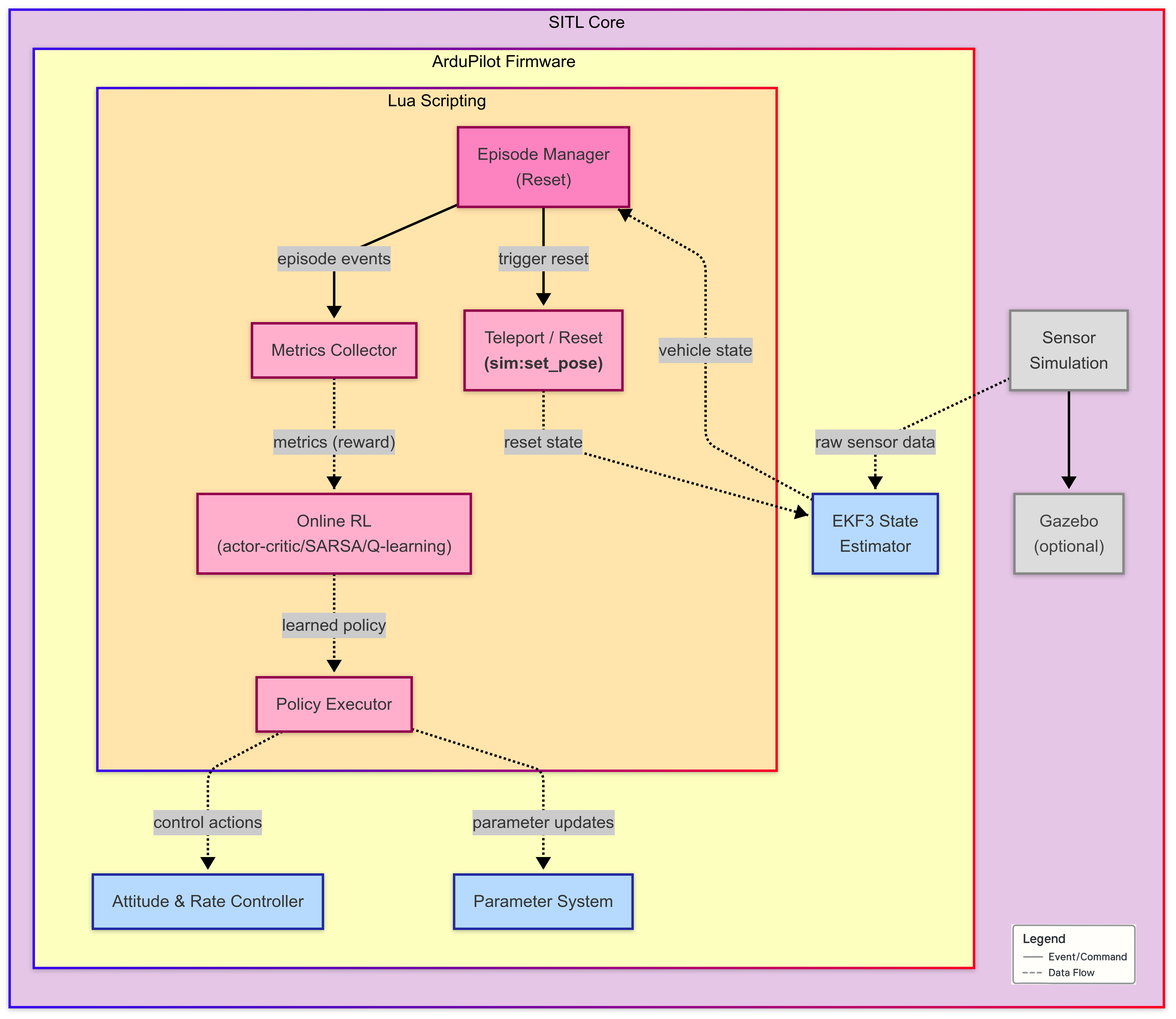
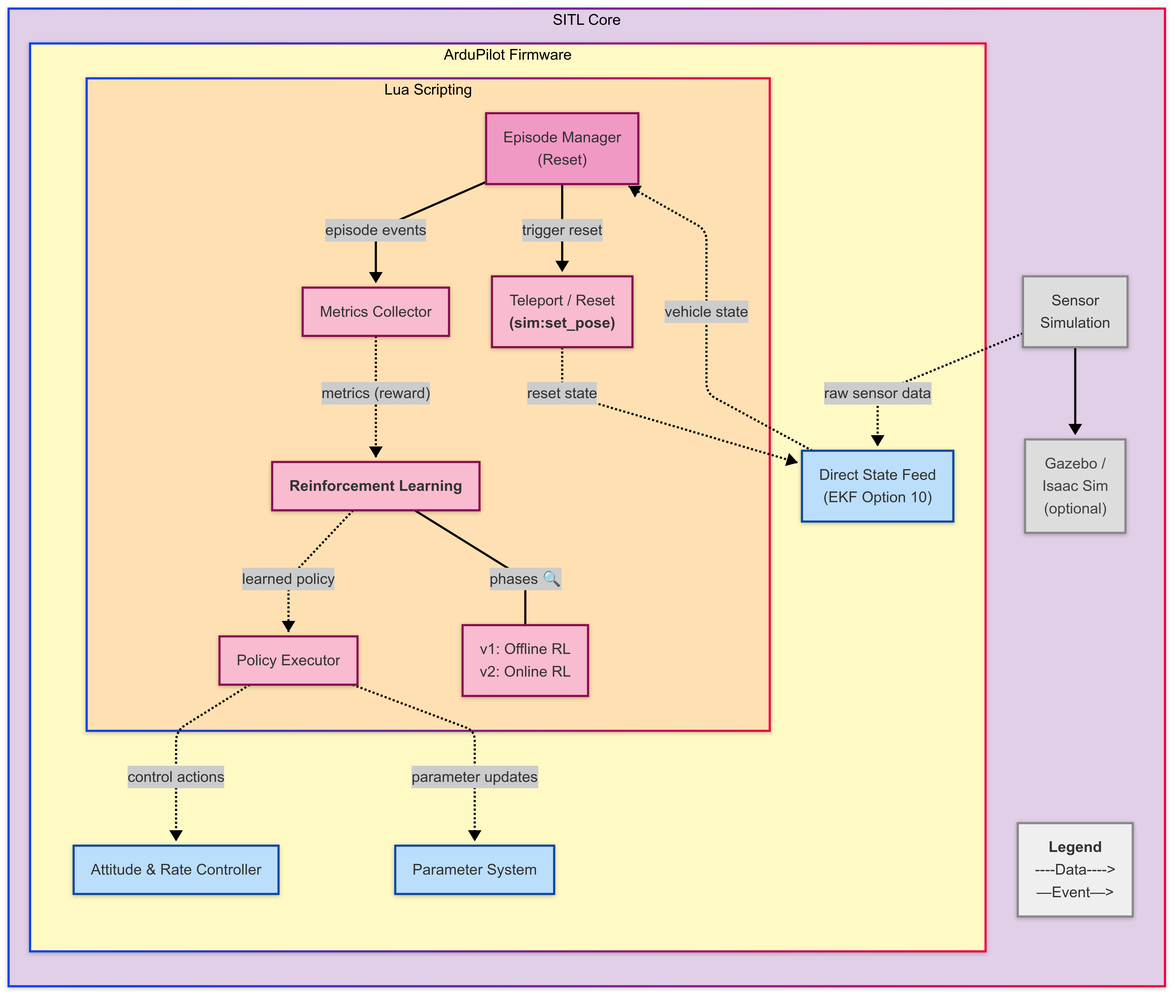
Update docs

Changed region(s): [[0.0, 0.0, 1.0, 0.992], [0.9375, 0.0, 1.0, 0.031]]

diff --git a/docs/README.md b/docs/README.md
@@ -2,60 +2,60 @@
 
 ![GSoC banner](images/GSoC-Banner.png)
 
-
-
 > **A Lua script that lets ArduPilot learn to tune itself, live, within SITL.**
 
-**Mentors:** Nate Mailhot & Sanket Sharma&nbsp;&nbsp;|&nbsp;&nbsp;**Timeframe:** May → Sep 2025&nbsp;&nbsp;|&nbsp;&nbsp;**Project:** [GSoC](https://summerofcode.withgoogle.com/programs/2025/projects/w7EYZSIz)
+**Mentors:** Nate Mailhot & Sanket Sharma  |  **Timeframe:** May → Sep 2025  |  **Project:** [GSoC](https://summerofcode.withgoogle.com/programs/2025/projects/w7EYZSIz)
 
 ## 1. Introduction 📣
 
-Hello ArduPilot community! I'm Bruno Andreoni Sarmento, a 4th year student at the Polytechnic School of the University of São Paulo (USP), pursuing a bachelor’s degree in Electrical Engineering. For the past two years I’ve been a member of Skyrats (USP’s autonomous-drone team), where I’ve worked with many open-source tools, ArduPilot being our core flight-control framework.
+Hello ArduPilot community! I'm Bruno Andreoni Sarmento, a 4th‑year student at the Polytechnic School of the University of São Paulo (USP), pursuing a bachelor’s degree in Electrical Engineering. For the past two years I’ve been a member of Skyrats (USP’s autonomous‑drone team), where I’ve worked with many open‑source tools, ArduPilot being our core flight‑control framework.
 
-I've been inspired by other team members that took part in GSoC project, and it was a dream come true being selected to this awesome project!
+I've been inspired by other team members that took part in GSoC projects, and it was a dream come true being selected for this awesome project!
 
 ## 2. Problem Statement ❗
 
-Today, UAV parameter tuning still relies on manual adjustments, often requiring trial-and-error sweeps and test flights. This approach is:
+Today, UAV parameter tuning still relies on manual adjustments, often requiring trial‑and‑error sweeps and test flights. This approach is:
 
-- Time-consuming and inefficient;
-- Poorly reproducible;
-- Not scalable for adaptive or autonomous systems.
+* Time‑consuming and inefficient;
+* Poorly reproducible;
+* Not scalable for adaptive or autonomous systems.
 
-Meanwhile, **Reinforcement Learning (RL)** offers a principled method for adaptive control, but the **ArduPilot SITL environment lacks built-in support for episodic interactions**, which are essential for reliable training and evaluation.
+Meanwhile, **Reinforcement Learning (RL)** offers a principled method for adaptive control, but the **ArduPilot SITL environment lacks built‑in support for episodic interactions**, which are essential for reliable training and evaluation.
 
 ## 3. Project Proposal 🚀
-> This project builds a lightweight Lua-based scripting layer on top of the existing SITL engine to enable episodic RL interactions.
+
+> This project builds a lightweight Lua‑based scripting layer on top of the existing SITL engine to enable episodic RL interactions.
 
 ![RL Illustrated](images/rl.jpg)
 
 The project introduces:
 
-- **Episodic Replay**: A structured way to test and evaluate UAV behavior across multiple runs, starting from known or randomized states.
-- **State Reset Mechanism**: Using `sim:set_pose()` in Lua scripts to programmatically reset UAV position, velocity, and attitude between episodes.
-- **Metric Logging**: Automated telemetry collection (e.g., tracking error, convergence time) to evaluate each episode’s performance.
-- **Online RL Loop**: A lightweight **online algorithm** (e.g., SARSA or Q-learning) will run in real-time within SITL to update parameters during simulation.
+* **Episodic Replay** – a structured way to test and evaluate UAV behavior across multiple runs, starting from known or randomized states;
+* **State Reset Mechanism** – using `sim:set_pose()` in Lua scripts to programmatically reset UAV position, velocity, and attitude between episodes;
+* **Metric Logging** – automated telemetry collection (e.g., tracking error, convergence time) to evaluate each episode’s performance;
+* **Offline RL Phase (baseline)** – log rich episodes and train an initial Q‑table/value‑function *offline* before any in‑place updates;
+* **Online RL Phase (final goal)** – once the baseline is set, the same agent keeps learning *live*, updating parameters in real time during simulation.
 
 This project builds the necessary infrastructure for **online learning directly in SITL**, unlocking new workflows for intelligent parameter tuning and experimental reinforcement learning within the ArduPilot ecosystem.
 
 ## 4. Solution Diagram 🖼
-![Solution diagram](images/diagram.png)
 
-This diagram shows how **online reinforcement learning** is embedded into **ArduPilot SITL** using **Lua scripting**.
+![Solution diagram](images/diagram.png)
 
 ### 4.1 Block‑by‑Block Breakdown 🔍
 
-| Block                 | Role                                                                                  | Key ArduPilot / Lua APIs                                       |
-| --------------------- | ------------------------------------------------------------------------------------- | -------------------------------------------------------------- |
-| **Episode Manager**   | Detects episode termination (e.g. time‑out, crash, success) and fires a reset.        | `time:millis()`, custom state checks                           |
-| **Teleport / Reset**  | Instantaneously re‑positions vehicle & zeros attitude/vel using **`sim:set_pose()`**. | `sim:set_pose(instance, loc, orient, vel_bf, gyro)`            |
-| **Metrics Collector** | Computes reward signals (tracking error, overshoot, energy) every tick.               | `ahrs:get_pitch()`, `vehicle:get_target_alt()`, custom math    |
-| **Online RL**         | Updates Q‑table / value function in‑place at \~10 Hz; selects next action.            | Pure Lua tables for Q‑table; math lib                          |
-| **Policy Executor**   | Applies action by tweaking params or sending direct control:                          | `param:set("ATC_RAT_PIT_P", val)`, `vehicle:set_target_roll()` |
-| **EKF3**              | Supplies fused state to Lua via binding helpers (`ahrs`, `ins`, etc.).                | Firmware internal                                              |
-| **Sensor Simulation** | Generates IMU/GPS from physics backend (Gazebo or built‑in).                          | SITL C++                                                       |
+| Block                              | Role                                                                                                                                                                                                                                                    | Key ArduPilot / Lua APIs                                       |
+| ---------------------------------- | ------------------------------------------------------------------------------------------------------------------------------------------------------------------------------------------------------------------------------------------------------- | -------------------------------------------------------------- |
+| **Episode Manager**                | Detects episode termination (e.g. time‑out, crash, success) and fires a reset.                                                                                                                                                                          | `time:millis()`, custom state checks                           |
+| **Teleport / Reset**               | Instantaneously re‑positions vehicle & zeros attitude/vel using **`sim:set_pose()`**.                                                                                                                                                                   | `sim:set_pose(instance, loc, orient, vel_bf, gyro)`            |
+| **Metrics Collector**              | Computes reward signals (tracking error, overshoot, energy) every tick.                                                                                                                                                                                 | `ahrs:get_pitch()`, `vehicle:get_target_alt()`, custom math    |
+| **Reinforcement Learning**                      | Updates Q‑table / value function in‑place at ≈ 10 Hz; selects next action. During the **Offline RL Phase** it runs in *log‑only* mode to gather state–action–reward traces for baseline training, switching to live updates in the **Online RL Phase**. | Pure Lua tables for Q‑table; math lib                          |
+| **Policy Executor**                | Applies action by tweaking params or sending direct control:                                                                                                                                                                                            | `param:set("ATC_RAT_PIT_P", val)`, `vehicle:set_target_roll()` |
+| **Direct State Feed (EKF Opt 10)** | Supplies fused state to Lua via binding helpers (`ahrs`, `ins`, etc.).                                                                                                                                                                                  | Firmware internal                                              |
+| **Sensor Simulation**              | Generates IMU/GPS from physics backend (Gazebo or built‑in).                                                                                                                                                                                            | SITL C++                                                       |
 
 ## 5. How the Loop Runs 🔄
+
 1. **Reset** → Script arms vehicle, immediately calls `sim:set_pose()` to starting state.
 2. **Episode** → RL chooses an action (e.g., ±5 % on `ATC_RAT_RLL_P`).
 3. **Flight** → Controller responds; Metrics Collector accumulates reward.
@@ -63,8 +63,8 @@ This diagram shows how **online reinforcement learning** is embedded into **Ardu
 5. **Learn** → RL updates its policy online before next episode begins.
 
 Every tick is scheduled via `return loop, 100` (100 ms).
+
 ### 5.1 Code sketch 💻
-A simplified sketch of how the episodic learning loop works in Lua:
 
 ```lua
 -- init
@@ -90,40 +90,39 @@ end
 return loop, 100
 ```
 
-*(Full implementation lives in https://github.com/b-andreoni/GSoC/blob/main/scripts)*
+*(Full implementation lives in [https://github.com/b-andreoni/GSoC/blob/main/scripts](https://github.com/b-andreoni/GSoC/blob/main/scripts))*
 
 ---
 
-
 ## 6. Timeline 📅
-This GSoC project is structured into four main phases:
 
-| Phase                    | Timeframe    | Key Deliverables                                           |
-|--------------------------|--------------|------------------------------------------------------------|
-| **1. Reset Mechanism**   | June 2025    | - Integrate `sim:set_pose()` into SITL Lua API<br>- Enable repeatable episode resets |
-| **2. Episodic RL Loop**  | July 2025    | - Implement reward & metrics collection<br>- Build basic online RL loop (Q-learning/SARSA) |
-| **3. Policy Refinement** | August 2025  | - Add exploration strategies (e.g. ε-decay)<br>- Validate on varied flight scenarios |
-| **4. Docs & Releases**   | Early Sept   | - Publish user guide and examples<br>- Open PRs/issues for community review |
+This GSoC project is structured into five main phases:
+
+| Phase                              | Timeframe                   | Key Deliverables                                                                                                          |
+| ---------------------------------- | --------------------------- | ------------------------------------------------------------------------------------------------------------------------- |
+| **1. Reset Mechanism**             | June 2025                   | • Integrate `sim:set_pose()` into SITL Lua API<br>• Enable repeatable episode resets                                      |
+| **2. Offline RL Phase (baseline)** | late June – early July 2025 | • Collect episodic logs with a fixed policy<br>• Train baseline value/Q‑function offline<br>• Report baseline performance |
+| **3. Online RL Loop**              | July 2025                   | • Implement reward & metrics collection<br>• Activate in‑place learning (SARSA/Q‑learning)                                |
+| **4. Policy Refinement**           | August 2025                 | • Add exploration strategies (e.g., ε‑decay)<br>• Validate on varied flight scenarios                                     |
+| **5. Docs & Releases**             | Early Sep 2025              | • Publish user guide and examples<br>• Open PRs/issues for community review                                               |
 
 ## 7. Call for Feedback 💬
 
-I’d love to hear your field-tested wisdom, war stories, and wish-list items:
+I’d love to hear your field‑tested wisdom, war stories, and wish‑list items:
 
-- Reset mechanics – any EKF glitches, timing tricks, or failsafes you’ve hit when using sim:set_pose()?
+* **Reset mechanics** – any EKF glitches, timing tricks, or failsafes you’ve hit when using `sim:set_pose()`?
+* **Practical benefits** – where could an in‑sim offline+online RL loop spare you manual PID sweeps or repetitive test flights?
 
+Drop a comment on the PR, open an issue, or ping me on Discord (@bruno\_as). Your input will directly shape the next commits.
 
-- Practical benefits – where could an in-sim online RL loop spare you manual PID sweeps or repetitive test flights?
-
-Drop a comment on the PR, open an issue, or ping me on Discord (@bruno_as). Your input will directly shape the next commits.
 Thanks in advance!
 
-## 8. Github 🔗
-https://github.com/b-andreoni/GSoC/
+## 8. GitHub 🔗
 
-### Related PRs & Code Snippets:
-https://github.com/ArduPilot/ardupilot/pull/29616
-https://github.com/ArduPilot/ardupilot/blob/master/libraries/AP_Scripting/examples/sim_arming_pos.lua
-https://github.com/ArduPilot/ardupilot/pull/29498/commits/51364c7f43af09c5f42d3e95315dc9c642dc093c
+[https://github.com/b-andreoni/GSoC/](https://github.com/b-andreoni/GSoC/)
 
+### Related PRs & Code Snippets
 
-
+* [https://github.com/ArduPilot/ardupilot/pull/29616](https://github.com/ArduPilot/ardupilot/pull/29616)
+* [https://github.com/ArduPilot/ardupilot/blob/master/libraries/AP\_Scripting/examples/sim\_arming\_pos.lua](https://github.com/ArduPilot/ardupilot/blob/master/libraries/AP_Scripting/examples/sim_arming_pos.lua)
+* [https://github.com/ArduPilot/ardupilot/pull/29498/commits/51364c7f43af09c5f42d3e95315dc9c642dc093c](https://github.com/ArduPilot/ardupilot/pull/29498/commits/51364c7f43af09c5f42d3e95315dc9c642dc093c)

diff --git a/docs/dicourse.md b/docs/dicourse.md
@@ -1,59 +1,61 @@
+# GSoC 2025: SITL AI Reinforcement Learning Concept Script
+
 ![|690x205](upload://xxHpjSo6MjBR78pnpE624gt8K52.png)
 
 > **A Lua script that lets ArduPilot learn to tune itself, live, within SITL.**
 
-**Mentors:** Nate Mailhot @NDev & Sanket Sharma @snktshrma &nbsp;&nbsp;|&nbsp;&nbsp;**Timeframe:** May → Sep 2025&nbsp;&nbsp;|&nbsp;&nbsp;**Project:** [GSoC](https://summerofcode.withgoogle.com/programs/2025/projects/w7EYZSIz)
+**Mentors:** Nate Mailhot & Sanket Sharma  |  **Timeframe:** May → Sep 2025  |  **Project:** [GSoC](https://summerofcode.withgoogle.com/programs/2025/projects/w7EYZSIz)
 
 ## 1. Introduction 📣
 
-Hello ArduPilot community! I'm Bruno Andreoni Sarmento, a 4th year student at the Polytechnic School of the University of São Paulo (USP), pursuing a bachelor’s degree in Electrical Engineering. For the past two years I’ve been a member of Skyrats (USP’s autonomous-drone team), where I’ve worked with many open-source tools, ArduPilot being our core flight-control framework.
+Hello ArduPilot community! I'm Bruno Andreoni Sarmento, a 4th‑year student at the Polytechnic School of the University of São Paulo (USP), pursuing a bachelor’s degree in Electrical Engineering. For the past two years I’ve been a member of Skyrats (USP’s autonomous‑drone team), where I’ve worked with many open‑source tools, ArduPilot being our core flight‑control framework.
 
-I've been inspired by other team members that took part in GSoC project, and it was a dream come true being selected to this awesome project!
+I've been inspired by other team members that took part in GSoC projects, and it was a dream come true being selected for this awesome project!
 
 ## 2. Problem Statement ❗
 
-Today, UAV parameter tuning still relies on manual adjustments, often requiring trial-and-error sweeps and test flights. This approach is:
+Today, UAV parameter tuning still relies on manual adjustments, often requiring trial‑and‑error sweeps and test flights. This approach is:
 
-- Time-consuming and inefficient;
-- Poorly reproducible;
-- Not scalable for adaptive or autonomous systems.
+* Time‑consuming and inefficient;
+* Poorly reproducible;
+* Not scalable for adaptive or autonomous systems.
 
-Meanwhile, **Reinforcement Learning (RL)** offers a principled method for adaptive control, but the **ArduPilot SITL environment lacks built-in support for episodic interactions**, which are essential for reliable training and evaluation.
+Meanwhile, **Reinforcement Learning (RL)** offers a principled method for adaptive control, but the **ArduPilot SITL environment lacks built‑in support for episodic interactions**, which are essential for reliable training and evaluation.
 
 ## 3. Project Proposal 🚀
-> This project builds a lightweight Lua-based scripting layer on top of the existing SITL engine to enable episodic RL interactions.
+
+> This project builds a lightweight Lua‑based scripting layer on top of the existing SITL engine to enable episodic RL interactions.
 
 ![RL Illustrated|690x370](upload://fxhFDlPAXijWp4RNjHTR8CqNpWq.jpeg)
 
-
 The project introduces:
 
-- **Episodic Replay**: A structured way to test and evaluate UAV behavior across multiple runs, starting from known or randomized states.
-- **State Reset Mechanism**: Using `sim:set_pose()` in Lua scripts to programmatically reset UAV position, velocity, and attitude between episodes.
-- **Metric Logging**: Automated telemetry collection (e.g., tracking error, convergence time) to evaluate each episode’s performance.
-- **Online RL Loop**: A lightweight **online algorithm** (e.g., SARSA or Q-learning) will run in real-time within SITL to update parameters during simulation.
+* **Episodic Replay** – a structured way to test and evaluate UAV behavior across multiple runs, starting from known or randomized states;
+* **State Reset Mechanism** – using `sim:set_pose()` in Lua scripts to programmatically reset UAV position, velocity, and attitude between episodes;
+* **Metric Logging** – automated telemetry collection (e.g., tracking error, convergence time) to evaluate each episode’s performance;
+* **Offline RL Phase (baseline)** – log rich episodes and train an initial Q‑table/value‑function *offline* before any in‑place updates;
+* **Online RL Phase (final goal)** – once the baseline is set, the same agent keeps learning *live*, updating parameters in real time during simulation.
 
 This project builds the necessary infrastructure for **online learning directly in SITL**, unlocking new workflows for intelligent parameter tuning and experimental reinforcement learning within the ArduPilot ecosystem.
 
 ## 4. Solution Diagram 🖼
+
 ![Solution Diagram|576x500](upload://kGoStJvVlYuzYH29CLV0wP84rbJ.jpeg)
-
-
-This diagram shows how **online reinforcement learning** is embedded into **ArduPilot SITL** using **Lua scripting**.
 
 ### 4.1 Block‑by‑Block Breakdown 🔍
 
-| Block                 | Role                                                                                  | Key ArduPilot / Lua APIs                                       |
-| --------------------- | ------------------------------------------------------------------------------------- | -------------------------------------------------------------- |
-| **Episode Manager**   | Detects episode termination (e.g. time‑out, crash, success) and fires a reset.        | `time:millis()`, custom state checks                           |
-| **Teleport / Reset**  | Instantaneously re‑positions vehicle & zeros attitude/vel using **`sim:set_pose()`**. | `sim:set_pose(instance, loc, orient, vel_bf, gyro)`            |
-| **Metrics Collector** | Computes reward signals (tracking error, overshoot, energy) every tick.               | `ahrs:get_pitch()`, `vehicle:get_target_alt()`, custom math    |
-| **Online RL**         | Updates Q‑table / value function in‑place at \~10 Hz; selects next action.            | Pure Lua tables for Q‑table; math lib                          |
-| **Policy Executor**   | Applies action by tweaking params or sending direct control:                          | `param:set("ATC_RAT_PIT_P", val)`, `vehicle:set_target_roll()` |
-| **EKF3**              | Supplies fused state to Lua via binding helpers (`ahrs`, `ins`, etc.).                | Firmware internal                                              |
-| **Sensor Simulation** | Generates IMU/GPS from physics backend (Gazebo or built‑in).                          | SITL C++                                                       |
+| Block                              | Role                                                                                                                                                                                                                                                    | Key ArduPilot / Lua APIs                                       |
+| ---------------------------------- | ------------------------------------------------------------------------------------------------------------------------------------------------------------------------------------------------------------------------------------------------------- | -------------------------------------------------------------- |
+| **Episode Manager**                | Detects episode termination (e.g. time‑out, crash, success) and fires a reset.                                                                                                                                                                          | `time:millis()`, custom state checks                           |
+| **Teleport / Reset**               | Instantaneously re‑positions vehicle & zeros attitude/vel using **`sim:set_pose()`**.                                                                                                                                                                   | `sim:set_pose(instance, loc, orient, vel_bf, gyro)`            |
+| **Metrics Collector**              | Computes reward signals (tracking error, overshoot, energy) every tick.                                                                                                                                                                                 | `ahrs:get_pitch()`, `vehicle:get_target_alt()`, custom math    |
+| **Reinforcement Learning**                      | Updates Q‑table / value function in‑place at ≈ 10 Hz; selects next action. During the **Offline RL Phase** it runs in *log‑only* mode to gather state–action–reward traces for baseline training, switching to live updates in the **Online RL Phase**. | Pure Lua tables for Q‑table; math lib                          |
+| **Policy Executor**                | Applies action by tweaking params or sending direct control:                                                                                                                                                                                            | `param:set("ATC_RAT_PIT_P", val)`, `vehicle:set_target_roll()` |
+| **Direct State Feed (EKF Opt 10)** | Supplies fused state to Lua via binding helpers (`ahrs`, `ins`, etc.).                                                                                                                                                                                  | Firmware internal                                              |
+| **Sensor Simulation**              | Generates IMU/GPS from physics backend (Gazebo or built‑in).                                                                                                                                                                                            | SITL C++                                                       |
 
 ## 5. How the Loop Runs 🔄
+
 1. **Reset** → Script arms vehicle, immediately calls `sim:set_pose()` to starting state.
 2. **Episode** → RL chooses an action (e.g., ±5 % on `ATC_RAT_RLL_P`).
 3. **Flight** → Controller responds; Metrics Collector accumulates reward.
@@ -61,8 +63,8 @@ This diagram shows how **online reinforcement learning** is embedded into **Ardu
 5. **Learn** → RL updates its policy online before next episode begins.
 
 Every tick is scheduled via `return loop, 100` (100 ms).
+
 ### 5.1 Code sketch 💻
-A simplified sketch of how the episodic learning loop works in Lua:
 
 ```lua
 -- init
@@ -92,27 +94,27 @@ return loop, 100
 
 ---
 
-
 ## 6. Timeline 📅
-This GSoC project is structured into four main phases:
 
-| Phase                    | Timeframe    | Key Deliverables                                           |
-|--------------------------|--------------|------------------------------------------------------------|
-| **1. Reset Mechanism**   | June 2025    | - Integrate `sim:set_pose()` into SITL Lua API<br>- Enable repeatable episode resets |
-| **2. Episodic RL Loop**  | July 2025    | - Implement reward & metrics collection<br>- Build basic online RL loop (Q-learning/SARSA) |
-| **3. Policy Refinement** | August 2025  | - Add exploration strategies (e.g. ε-decay)<br>- Validate on varied flight scenarios |
-| **4. Docs & Releases**   | Early Sept   | - Publish user guide and examples<br>- Open PRs/issues for community review |
+This GSoC project is structured into five main phases:
+
+| Phase                              | Timeframe                   | Key Deliverables                                                                                                          |
+| ---------------------------------- | --------------------------- | ------------------------------------------------------------------------------------------------------------------------- |
+| **1. Reset Mechanism**             | June 2025                   | • Integrate `sim:set_pose()` into SITL Lua API<br>• Enable repeatable episode resets                                      |
+| **2. Offline RL Phase (baseline)** | late June – early July 2025 | • Collect episodic logs with a fixed policy<br>• Train baseline value/Q‑function offline<br>• Report baseline performance |
+| **3. Online RL Loop**              | July 2025                   | • Implement reward & metrics collection<br>• Activate in‑place learning (SARSA/Q‑learning)                                |
+| **4. Policy Refinement**           | August 2025                 | • Add exploration strategies (e.g., ε‑decay)<br>• Validate on varied flight scenarios                                     |
+| **5. Docs & Releases**             | Early Sep 2025              | • Publish user guide and examples<br>• Open PRs/issues for community review                                               |
 
 ## 7. Call for Feedback 💬
 
-I’d love to hear your field-tested wisdom, war stories, and wish-list items:
+I’d love to hear your field‑tested wisdom, war stories, and wish‑list items:
 
-- Reset mechanics – any EKF glitches, timing tricks, or failsafes you’ve hit when using sim:set_pose()?
+* **Reset mechanics** – any EKF glitches, timing tricks, or failsafes you’ve hit when using `sim:set_pose()`?
+* **Practical benefits** – where could an in‑sim offline+online RL loop spare you manual PID sweeps or repetitive test flights?
 
+Drop a comment on the PR, open an issue, or ping me on Discord (@bruno\_as). Your input will directly shape the next commits.
 
-- Practical benefits – where could an in-sim online RL loop spare you manual PID sweeps or repetitive test flights?
-
-Drop a comment on the PR, open an issue, or ping me on Discord (@bruno_as). Your input will directly shape the next commits.
 Thanks in advance!
 
 ## 8. Github 🔗
@@ -121,8 +123,4 @@ https://github.com/b-andreoni/GSoC/
 ### Related PRs & Code Snippets:
 https://github.com/ArduPilot/ardupilot/pull/29616
 https://github.com/ArduPilot/ardupilot/blob/master/libraries/AP_Scripting/examples/sim_arming_pos.lua
-https://github.com/ArduPilot/ardupilot/commit/a03d4422721917bfa5eabdf0305727960f016bbd
 https://github.com/ArduPilot/ardupilot/pull/29498/commits/51364c7f43af09c5f42d3e95315dc9c642dc093c
-
-
-
